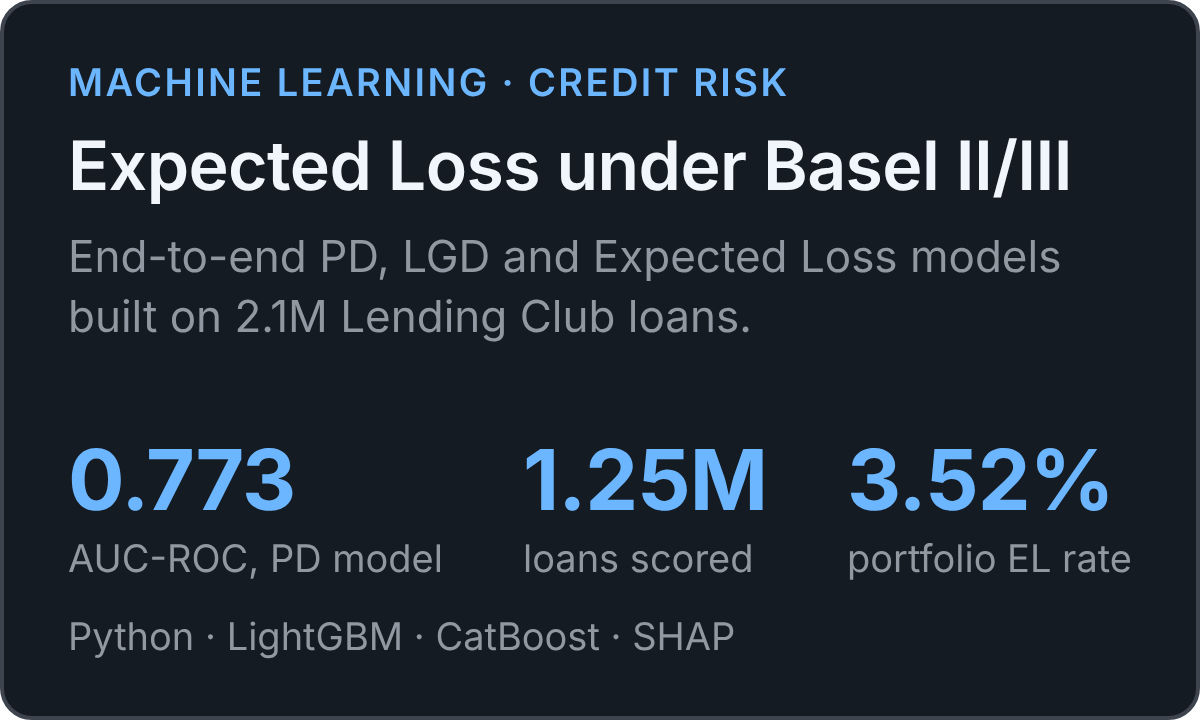
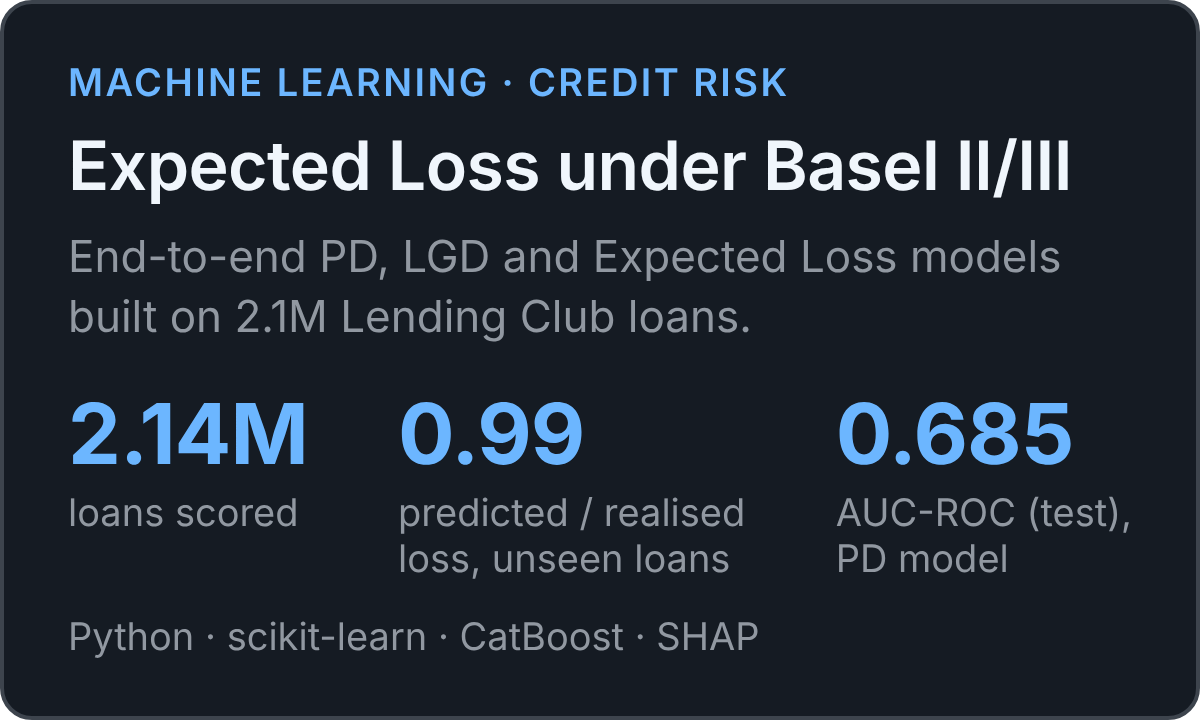
Update the credit-risk card to the final results of the project
The card and its alt text still showed the first version of the project
(AUC 0.773, 1.25M loans scored, 3.52% EL rate, LightGBM). After the rework
(development on matured loans, net-loss LGD, calibration on its own split)
the figures are:

- 2.14M loans scored
- 0.99 predicted / realised loss on the loans the models never saw (0.988)
- 0.685 test AUC of the selected PD model (logistic regression)

The stack line now lists scikit-learn instead of LightGBM, since the selected
PD model is a scikit-learn logistic regression. Both PNGs were regenerated
with src/elshot.js; the milk card renders pixel-identical, so the rendering
setup matches the original.

Claude-Session: https://claude.ai/code/session_019nRT75UtVwLY1VhRQrrwaE

diff --git a/src/cards.html b/src/cards.html
@@ -46,11 +46,11 @@
     <h2>Expected Loss under Basel II/III</h2>
     <p class="desc">End-to-end PD, LGD and Expected Loss models built on 2.1M Lending Club loans.</p>
     <div class="metrics">
-      <div class="m"><div class="v">0.773</div><div class="l">AUC-ROC, PD model</div></div>
-      <div class="m"><div class="v">1.25M</div><div class="l">loans scored</div></div>
-      <div class="m"><div class="v">3.52%</div><div class="l">portfolio EL rate</div></div>
+      <div class="m"><div class="v">2.14M</div><div class="l">loans scored</div></div>
+      <div class="m"><div class="v">0.99</div><div class="l">predicted / realised<br>loss, unseen loans</div></div>
+      <div class="m"><div class="v">0.685</div><div class="l">AUC-ROC (test),<br>PD model</div></div>
     </div>
-    <div class="stack">Python · LightGBM · CatBoost · SHAP</div>
+    <div class="stack">Python · scikit-learn · CatBoost · SHAP</div>
   </div>
 
   <div id="milk" class="card half milk">

diff --git a/README.md b/README.md
@@ -17,7 +17,7 @@ Since then I have been building data science projects in Python, from credit-ris
 ## Selected work
 
 <p align="center">
-  <a href="https://github.com/JuanGarridoGarcia/A-Deep-Dive-into-Expected-Loss-through-Credit-Scoring-Industry-Standard-Machine-Learning"><picture><source media="(prefers-color-scheme: dark)" srcset="assets/credit-dark.png"><img src="assets/credit-light.png" alt="Credit risk: Expected Loss under Basel II/III. PD, LGD and Expected Loss models on 2.1M Lending Club loans. AUC-ROC 0.773, 1.25M loans scored, 3.52% portfolio EL rate." width="49%"></picture></a>
+  <a href="https://github.com/JuanGarridoGarcia/A-Deep-Dive-into-Expected-Loss-through-Credit-Scoring-Industry-Standard-Machine-Learning"><picture><source media="(prefers-color-scheme: dark)" srcset="assets/credit-dark.png"><img src="assets/credit-light.png" alt="Credit risk: Expected Loss under Basel II/III. PD, LGD and Expected Loss models on 2.1M Lending Club loans. 2.14M loans scored, predicted loss 0.99 of the realised loss on unseen loans, AUC-ROC 0.685 on the test split." width="49%"></picture></a>
   <a href="https://github.com/JuanGarridoGarcia/More-Milk-Same-Price-Causal-Evaluation-EU-Milk-Quota-Abolition-"><picture><source media="(prefers-color-scheme: dark)" srcset="assets/milk-dark.png"><img src="assets/milk-light.png" alt="More Milk, Same Price: causal evaluation of the 2015 EU milk-quota abolition. +11% milk volume by 2019, no price gap against controls, about +9% farm income." width="49%"></picture></a>
 </p>
 <p align="center">
